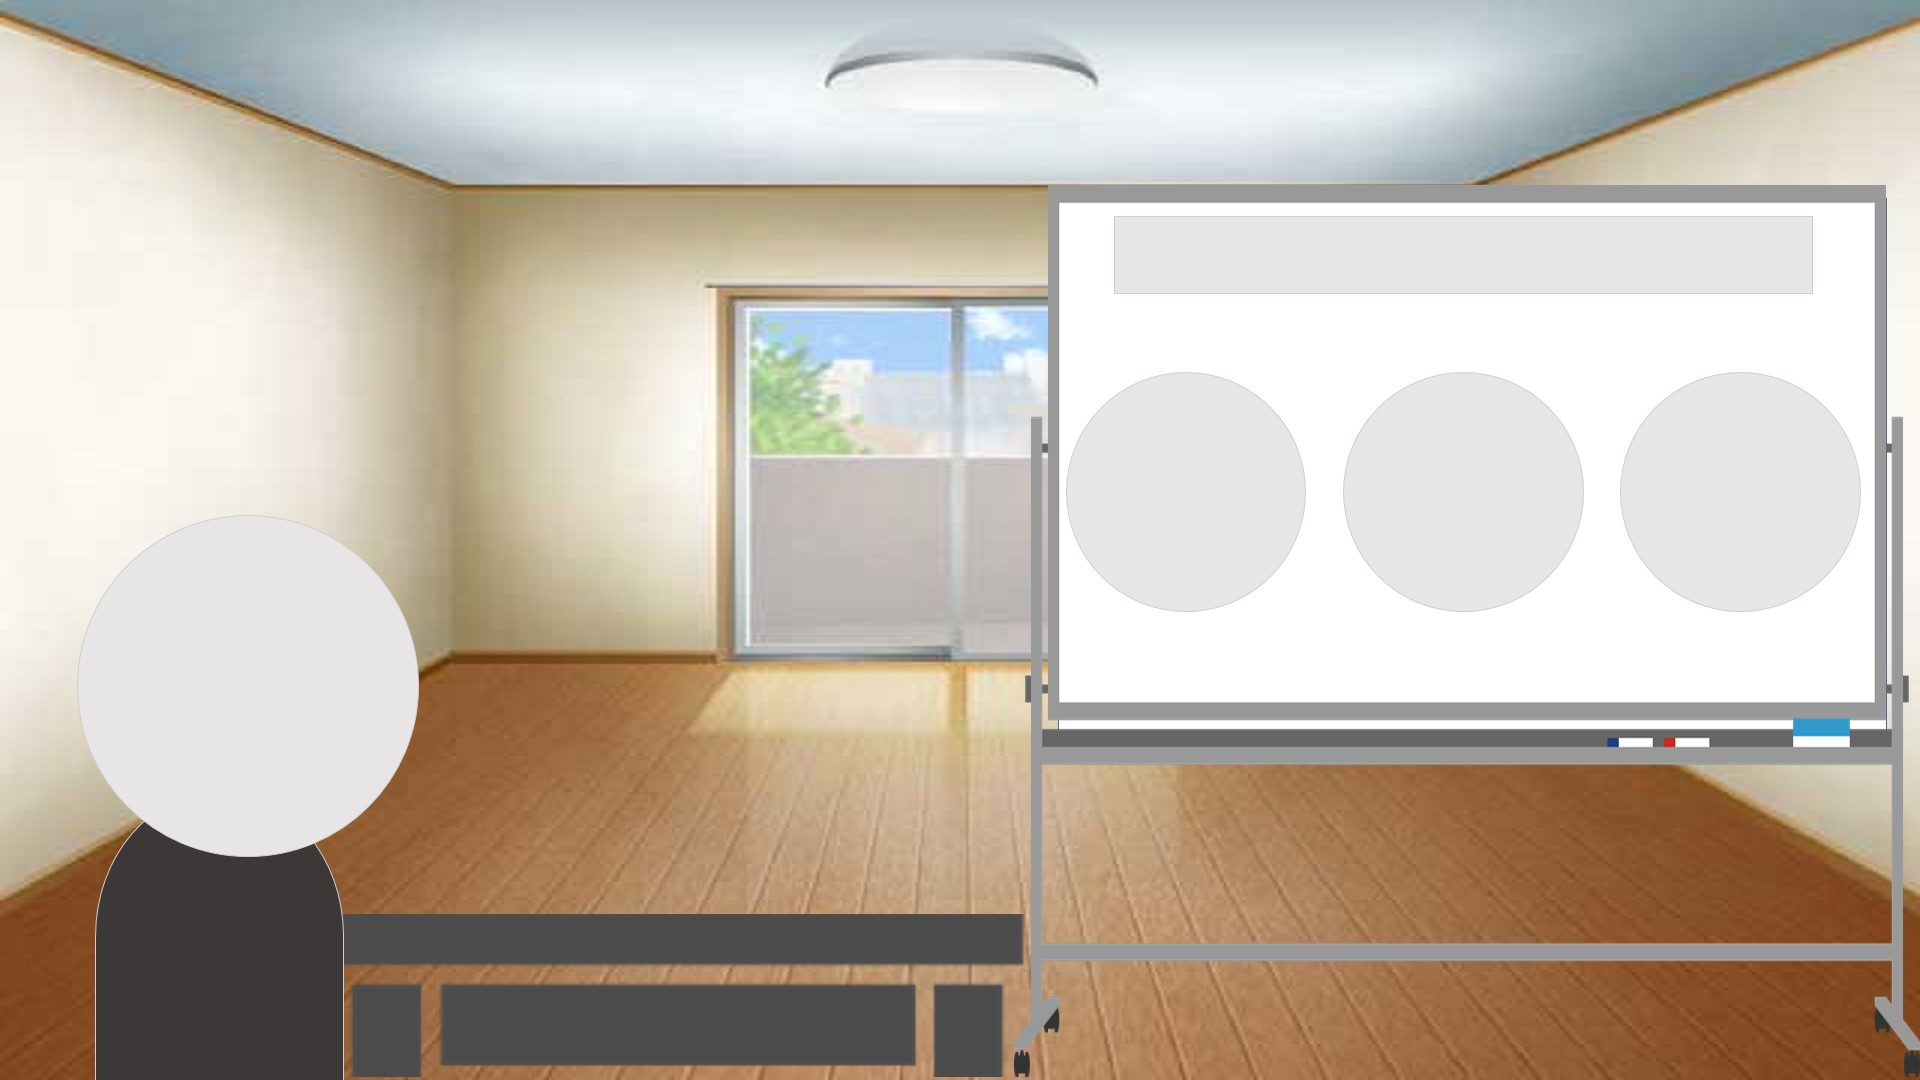
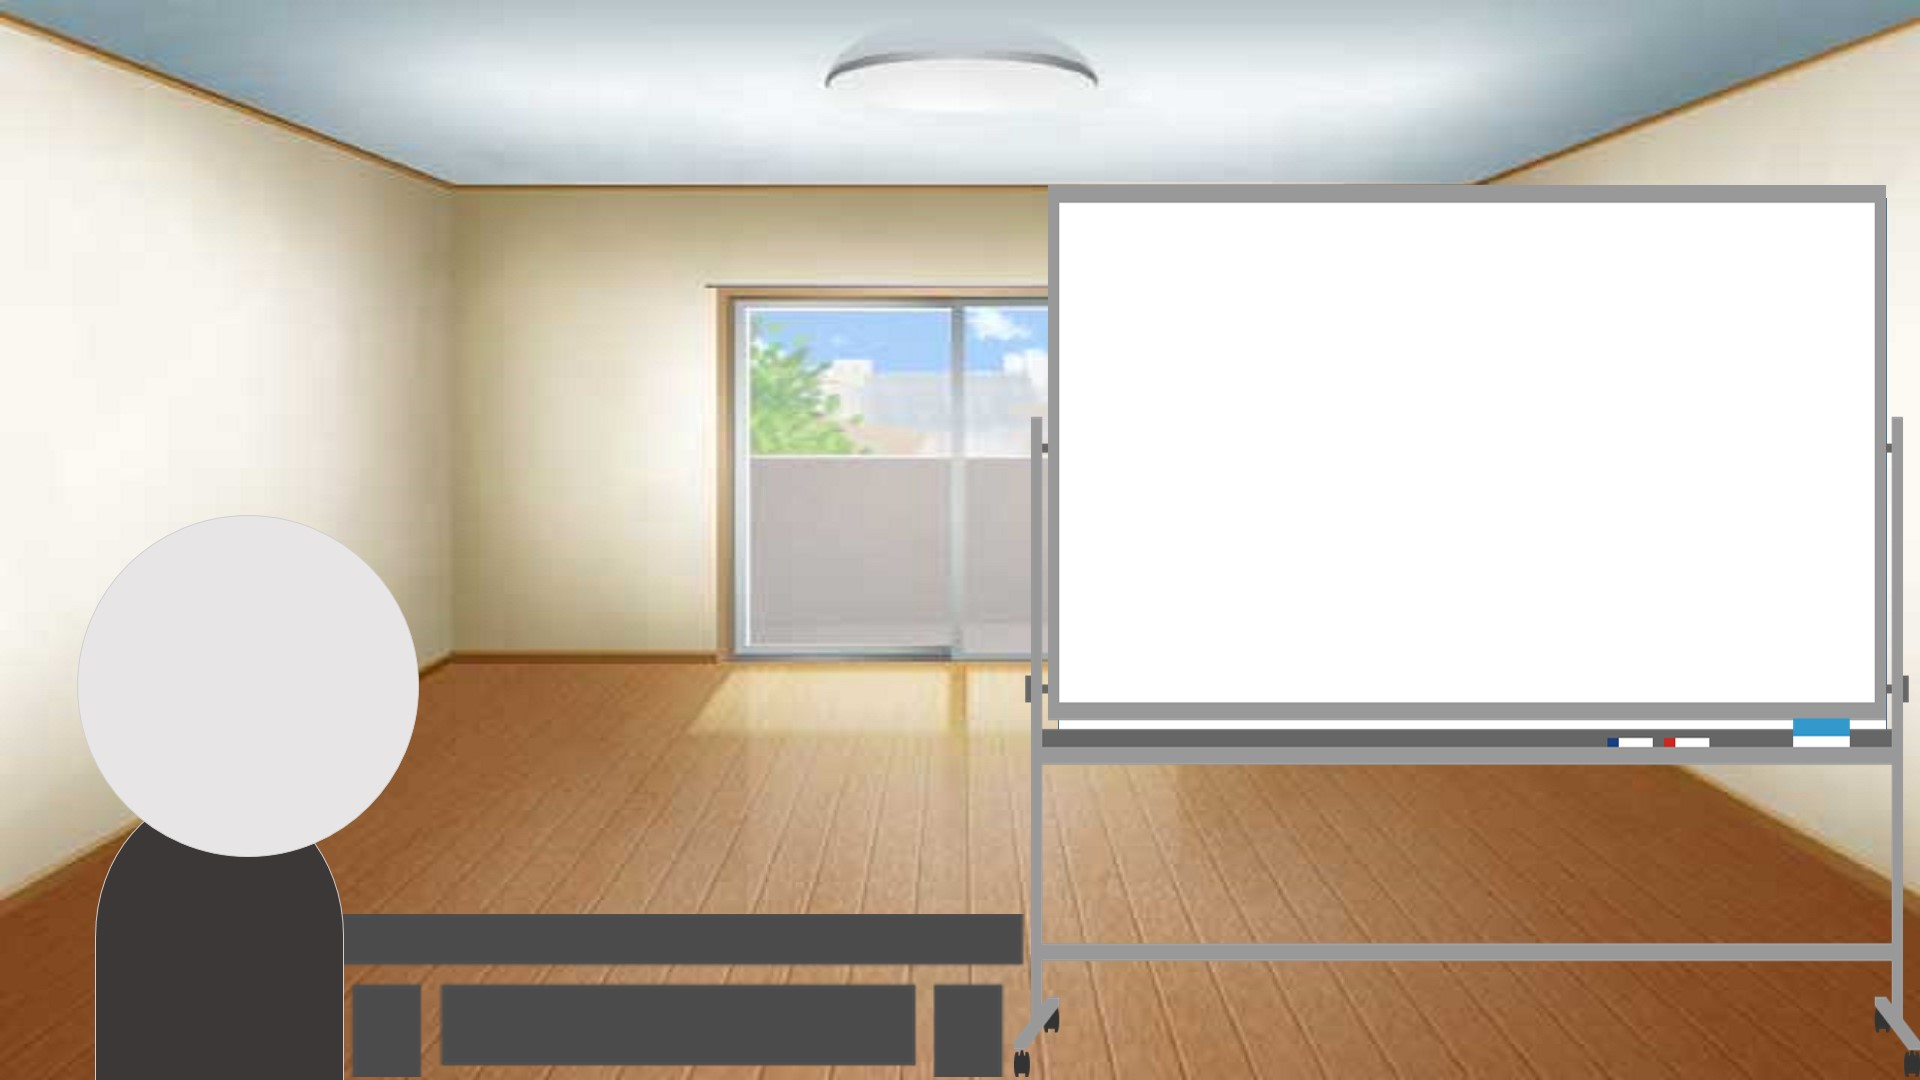
changed background

Changed region(s): [[0.5312, 0.3361, 0.9688, 0.5806], [0.5625, 0.1833, 0.9688, 0.275]]

diff --git a/WebProgram.html b/WebProgram.html
@@ -30,7 +30,7 @@
   <div class="buttan_default">
     <form action="cgi-bin/abc.cgi" method="post">
       <p>
-        <input type="image" src="menhera_default.png" alt="早くして！" id="question"　width="350" height="300">
+        <input type="image" src="menhera_default.png" alt="早くして！" id="question"　width="270" height="305">
       </p>
     </form>
 	</div>
@@ -49,6 +49,7 @@
 
   <!-- Q1 -->
   <div class="form">
+		<img src="background.jpg" alt="メンヘラちゃん" >
 		<form action="cgi-bin/abc.cgi" method="post">
         <section>
           <h2>外に出た？</h2>
